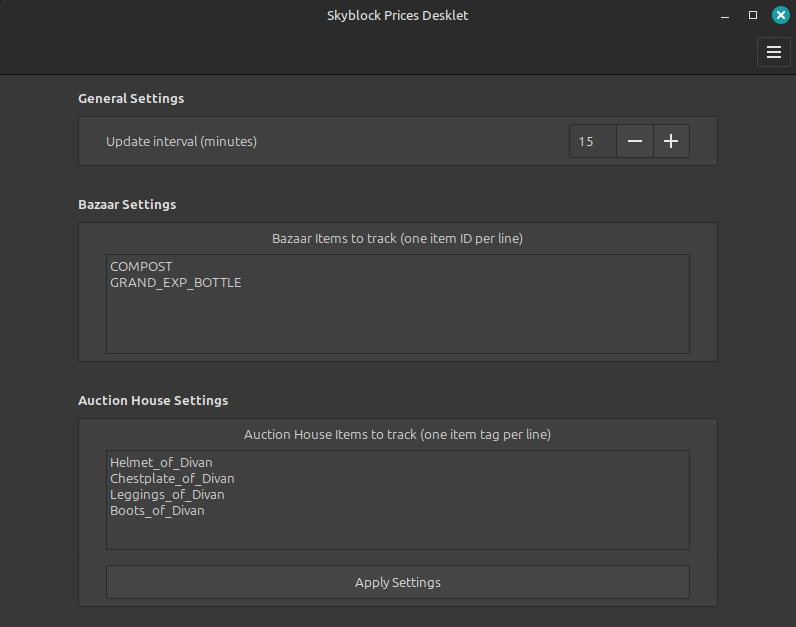
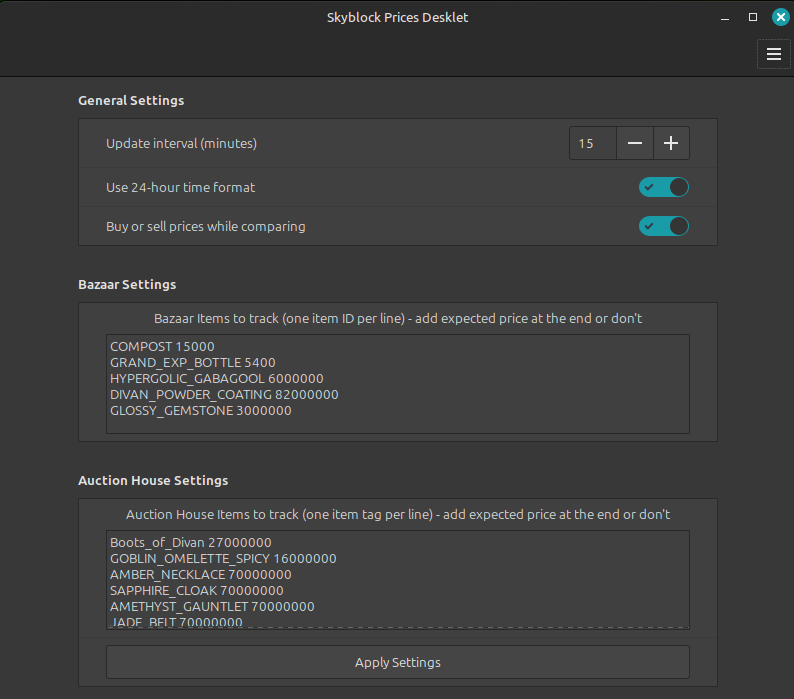
Version 1.4 changes: - Added 12-hour time option - Fixed readme spacing - Added ability to set a target price for items, and the difference will be shown with the border color of the items' boxes.

diff --git a/desklet.js b/desklet.js
@@ -24,6 +24,8 @@ SkyblockPricesDesklet.prototype = {
 		this.bazaarItems = ["COMPOST", "ENCHANTED_BREAD", "HOT_POTATO_BOOK"];
 		this.auctionItems = ["Chestplate_of_Divan", "Warden_Helmet", "Hyperion"];
 		this.updateInterval = 30;
+		this.use24HourFormat = true;
+		this.buyOrSellInDiff = true;
 
 		try {
 			this.settings = new Settings.DeskletSettings(this, metadata.uuid, desklet_id);
@@ -31,6 +33,8 @@ SkyblockPricesDesklet.prototype = {
 			this.settings.bindProperty(Settings.BindingDirection.IN, "bazaar_items_list", "bazaarItemsList", null, null);
 			this.settings.bindProperty(Settings.BindingDirection.IN, "auction_items_list", "auctionItemsList", null, null);
 			this.settings.bindProperty(Settings.BindingDirection.IN, "update_interval", "updateInterval", null, null);
+			this.settings.bindProperty(Settings.BindingDirection.IN, "use_24_hour_format", "use24HourFormat", null, null);
+			this.settings.bindProperty(Settings.BindingDirection.IN, "buy_or_sell_in_diff", "buyOrSellInDiff", null, null);
 			this.settings.bindProperty(Settings.BindingDirection.IN, "apply_button", "applyButton", null, null);
 		} catch (e) {
 			global.logError("Failed to initialize settings: " + e);
@@ -44,11 +48,15 @@ SkyblockPricesDesklet.prototype = {
 		this.setupUpdateLoop();
 	},
 
-	_runScriptAsync: function (command, container) {
+	_runScriptAsync: function (command, container, expectedCoins) {
 		const Gio = imports.gi.Gio;
 
 		try {
 			let [success, argv] = GLib.shell_parse_argv(command);
+			if (!success) {
+				throw new Error("Failed to parse command: " + command);
+			}
+
 			let proc = new Gio.Subprocess({
 				argv: argv,
 				flags: Gio.SubprocessFlags.STDOUT_PIPE | Gio.SubprocessFlags.STDERR_PIPE,
@@ -58,6 +66,11 @@ SkyblockPricesDesklet.prototype = {
 			proc.communicate_utf8_async(null, null, (proc, res) => {
 				try {
 					let [, stdout, stderr] = proc.communicate_utf8_finish(res);
+
+					if (stderr && stderr.trim() !== "") {
+						global.logError("Script error: " + stderr);
+					}
+
 					let output = stdout.trim();
 
 					let itemBox = new St.BoxLayout({
@@ -70,30 +83,94 @@ SkyblockPricesDesklet.prototype = {
 						.map(l => l.trim())
 						.filter(l => l !== "");
 
+					if (lines.length === 0) {
+						let errorLabel = new St.Label({ text: "Empty response from script" });
+						container.add(errorLabel);
+						return;
+					}
+
+					let apiPrice = null;
+					let borderStyle = "";
+
+					if (expectedCoins !== null && lines.length > 1) {
+						let priceMatch;
+
+						if (lines[1].includes("Buy") && lines[1].includes("Sell")) {
+							if (this.buyOrSellInDiff) {
+								priceMatch = lines[1].match(/-\s*([\d,]+)/);
+							} else {
+								priceMatch = lines[1].match(/Buy\s+([\d,]+)/);
+							}
+						} else if (lines[1].includes("Lowest BIN:")) {
+							priceMatch = lines[1].match(/Lowest BIN:\s+([\d,]+)/);
+						}
+
+						if (priceMatch && priceMatch[1]) {
+							apiPrice = parseFloat(priceMatch[1].replace(/,/g, ""));
+
+							if (!isNaN(apiPrice) && apiPrice > 0 && expectedCoins > 0) {
+								let percentage = ((apiPrice - expectedCoins) / expectedCoins) * 100;
+								let borderColor = this.getColorFromPercentage(percentage);
+								borderStyle = `border: 2px solid ${borderColor}; border-radius: 10px; padding: 5px;`;
+							}
+						}
+					}
+
+					if (borderStyle) {
+						itemBox.set_style(borderStyle);
+					}
+
 					lines.forEach((line, index) => {
 						let label = new St.Label({
 							text: line,
 							style_class: index === 0 ? "item-name" : "item-price",
 						});
-						itemBox.add(label);
+						itemBox.add_actor(label);
 
 						if (index < lines.length - 1) {
 							let itemSeparator = new St.BoxLayout({ style_class: "item-separator" });
-							itemBox.add(itemSeparator);
+							itemBox.add_actor(itemSeparator);
 						}
 					});
 
-					container.add(itemBox);
+					container.add_actor(itemBox);
 				} catch (e) {
 					global.logError("Async script output error: " + e.message);
 					let errorLabel = new St.Label({ text: "Error parsing result" });
-					container.add(errorLabel);
+					container.add_actor(errorLabel);
 				}
 			});
 		} catch (e) {
 			global.logError("Failed to run async script: " + e.message);
 			let errorLabel = new St.Label({ text: "Script failed to run" });
-			container.add(errorLabel);
+			container.add_actor(errorLabel);
+		}
+	},
+
+	parseItemLine: function (itemLine) {
+		let parts = itemLine.trim().split(/\s+/);
+		let itemId = parts[0];
+		let coinsValue = null;
+
+		if (parts.length >= 2) {
+			let possibleCoins = parseFloat(parts[1]);
+			if (!isNaN(possibleCoins) && possibleCoins > 0) {
+				coinsValue = possibleCoins;
+			}
+		}
+
+		return { itemId: itemId, coins: coinsValue };
+	},
+
+	getColorFromPercentage: function (percentage) {
+		let clampedPerc = Math.max(-100, Math.min(100, percentage));
+		let norm = Math.abs(clampedPerc) / 100;
+		let alpha = 0.2 + 0.8 * norm;
+
+		if (clampedPerc >= 0) {
+			return `rgba(0, 255, 0, ${alpha})`;
+		} else {
+			return `rgba(255, 0, 0, ${1 - alpha})`;
 		}
 	},
 
@@ -101,23 +178,23 @@ SkyblockPricesDesklet.prototype = {
 		if (this.bazaarItemsList && this.bazaarItemsList.trim() !== "") {
 			this.bazaarItems = this.bazaarItemsList
 				.split("\n")
-				.map(item => item.trim())
-				.filter(item => item !== "");
+				.map(item => this.parseItemLine(item))
+				.filter(item => item.itemId !== "");
 		}
 
 		if (this.bazaarItems.length === 0) {
-			this.bazaarItems = ["COMPOST"];
+			this.bazaarItems = [{ itemId: "COMPOST", coins: null }];
 		}
 
 		if (this.auctionItemsList && this.auctionItemsList.trim() !== "") {
 			this.auctionItems = this.auctionItemsList
 				.split("\n")
-				.map(item => item.trim())
-				.filter(item => item !== "");
+				.map(item => this.parseItemLine(item))
+				.filter(item => item.itemId !== "");
 		}
 
 		if (this.auctionItems.length === 0) {
-			this.auctionItems = ["Chestplate_of_Divan"];
+			this.auctionItems = [{ itemId: "Chestplate_of_Divan", coins: null }];
 		}
 	},
 
@@ -131,6 +208,19 @@ SkyblockPricesDesklet.prototype = {
 	},
 
 	setupUI: function () {
+		let deskletPath = this.metadata.path;
+		let cssPath = GLib.build_filenamev([deskletPath, "stylesheet.css"]);
+
+		if (GLib.file_test(cssPath, GLib.FileTest.EXISTS)) {
+			let theme = St.ThemeContext.get_for_stage(global.stage);
+			let themeCSS = theme.get_theme();
+			try {
+				themeCSS.load_stylesheet(cssPath);
+			} catch (e) {
+				global.logError("Failed to load CSS: " + e);
+			}
+		}
+
 		this.mainBox = new St.BoxLayout({
 			vertical: true,
 			style_class: "skyblock-desklet",
@@ -193,13 +283,14 @@ SkyblockPricesDesklet.prototype = {
 			this.contentBox.add(bazaarContainer);
 
 			for (let i = 0; i < this.bazaarItems.length; i++) {
-				let name = this.bazaarItems[i].trim();
+				let item = this.bazaarItems[i];
+				let name = item.itemId.trim();
 				if (!name) continue;
 				name = name.replace(/"/g, '\\"');
 				let slot = new St.BoxLayout({ vertical: true });
 				bazaarContainer.add(slot);
 				let cmd = `/bin/bash "${scriptPath}" "bazaar" "${name}"`;
-				this._runScriptAsync(cmd, slot);
+				this._runScriptAsync(cmd, slot, item.coins);
 			}
 		}
 
@@ -223,13 +314,14 @@ SkyblockPricesDesklet.prototype = {
 			this.contentBox.add(auctionContainer);
 
 			for (let i = 0; i < this.auctionItems.length; i++) {
-				let name = this.auctionItems[i].trim();
+				let item = this.auctionItems[i];
+				let name = item.itemId.trim();
 				if (!name) continue;
 				name = name.replace(/"/g, '\\"');
 				let slot = new St.BoxLayout({ vertical: true });
 				auctionContainer.add(slot);
 				let cmd = `/bin/bash "${scriptPath}" "auction" "${name}"`;
-				this._runScriptAsync(cmd, slot);
+				this._runScriptAsync(cmd, slot, item.coins);
 			}
 		}
 
@@ -237,7 +329,7 @@ SkyblockPricesDesklet.prototype = {
 		let fmt = now.toLocaleTimeString([], {
 			hour: "2-digit",
 			minute: "2-digit",
-			hour12: false,
+			hour12: !this.use24HourFormat,
 		});
 		this.lastUpdatedLabel.set_text("Victiniiiii's Skyblock Desklet.\nLast Updated: " + fmt);
 

diff --git a/readme.md b/readme.md
@@ -13,7 +13,7 @@ If you don't know what this if for, you can think of it like as a stock market b
 
 ## How to use?
 
-First, install these packages:
+First, install these packages:   
 ```sudo apt install curl jq gawk```  
 curl: for api requests  
 jq: for parsing JSON  
